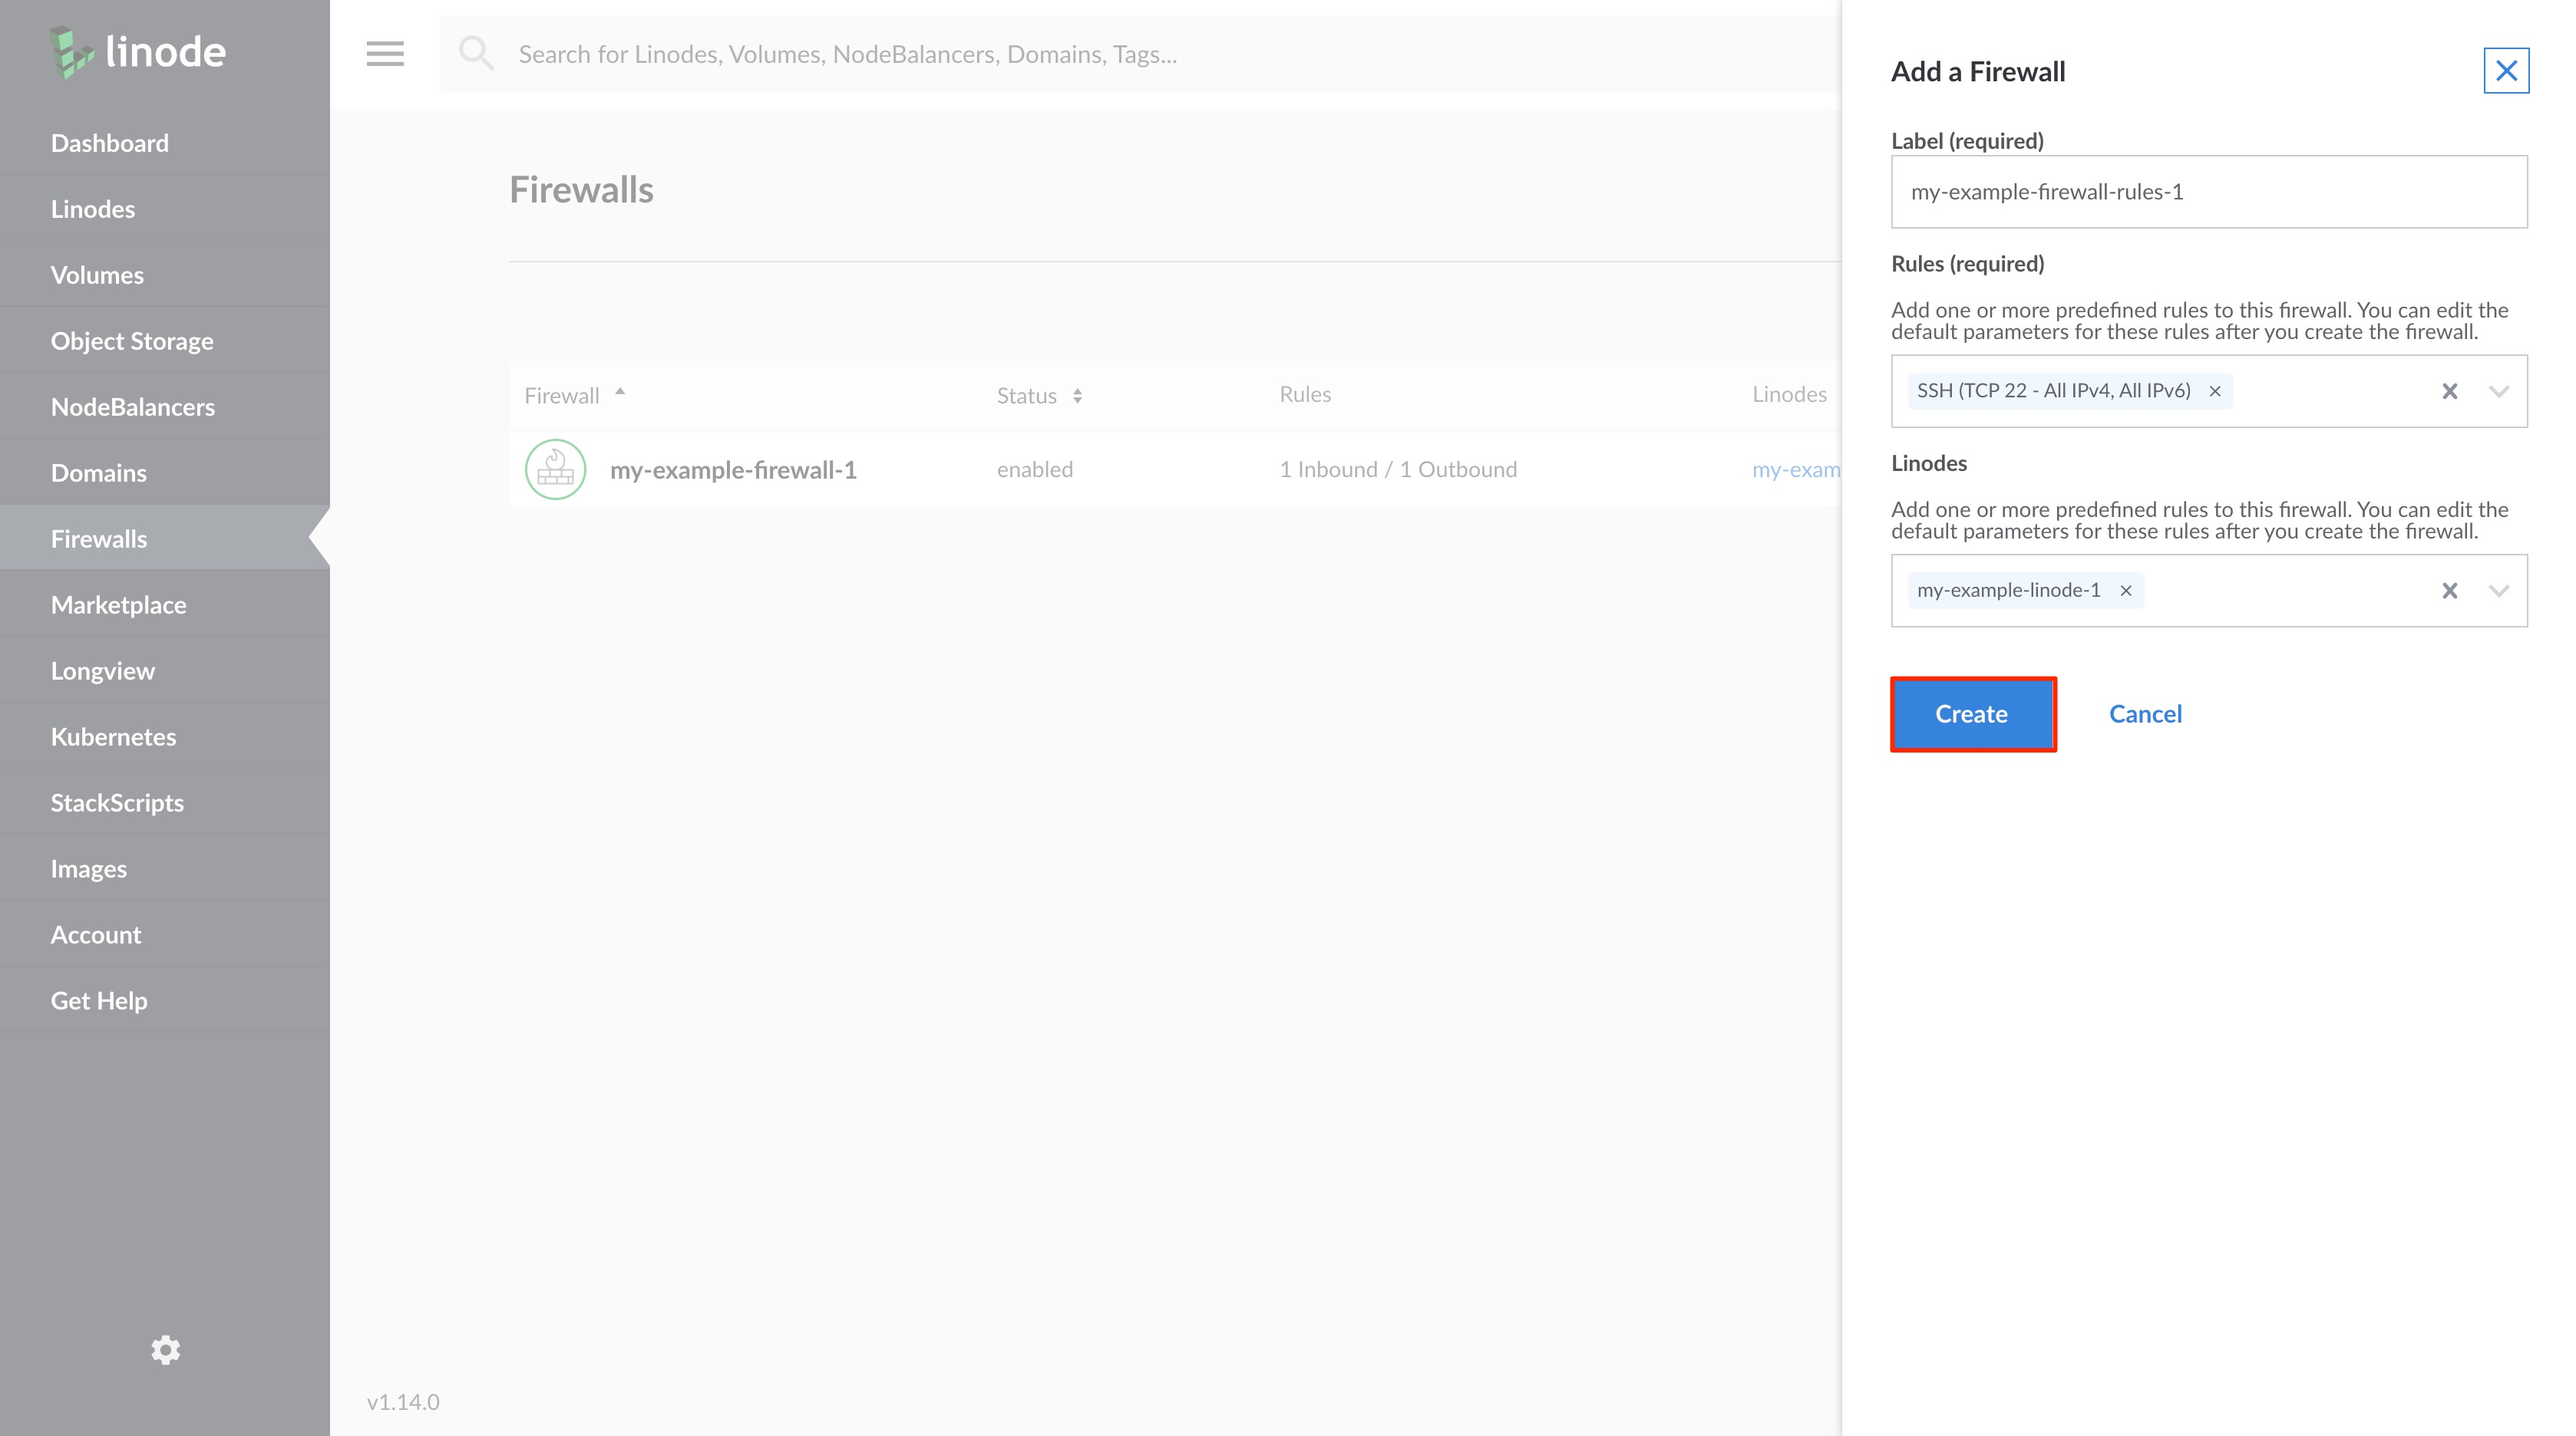
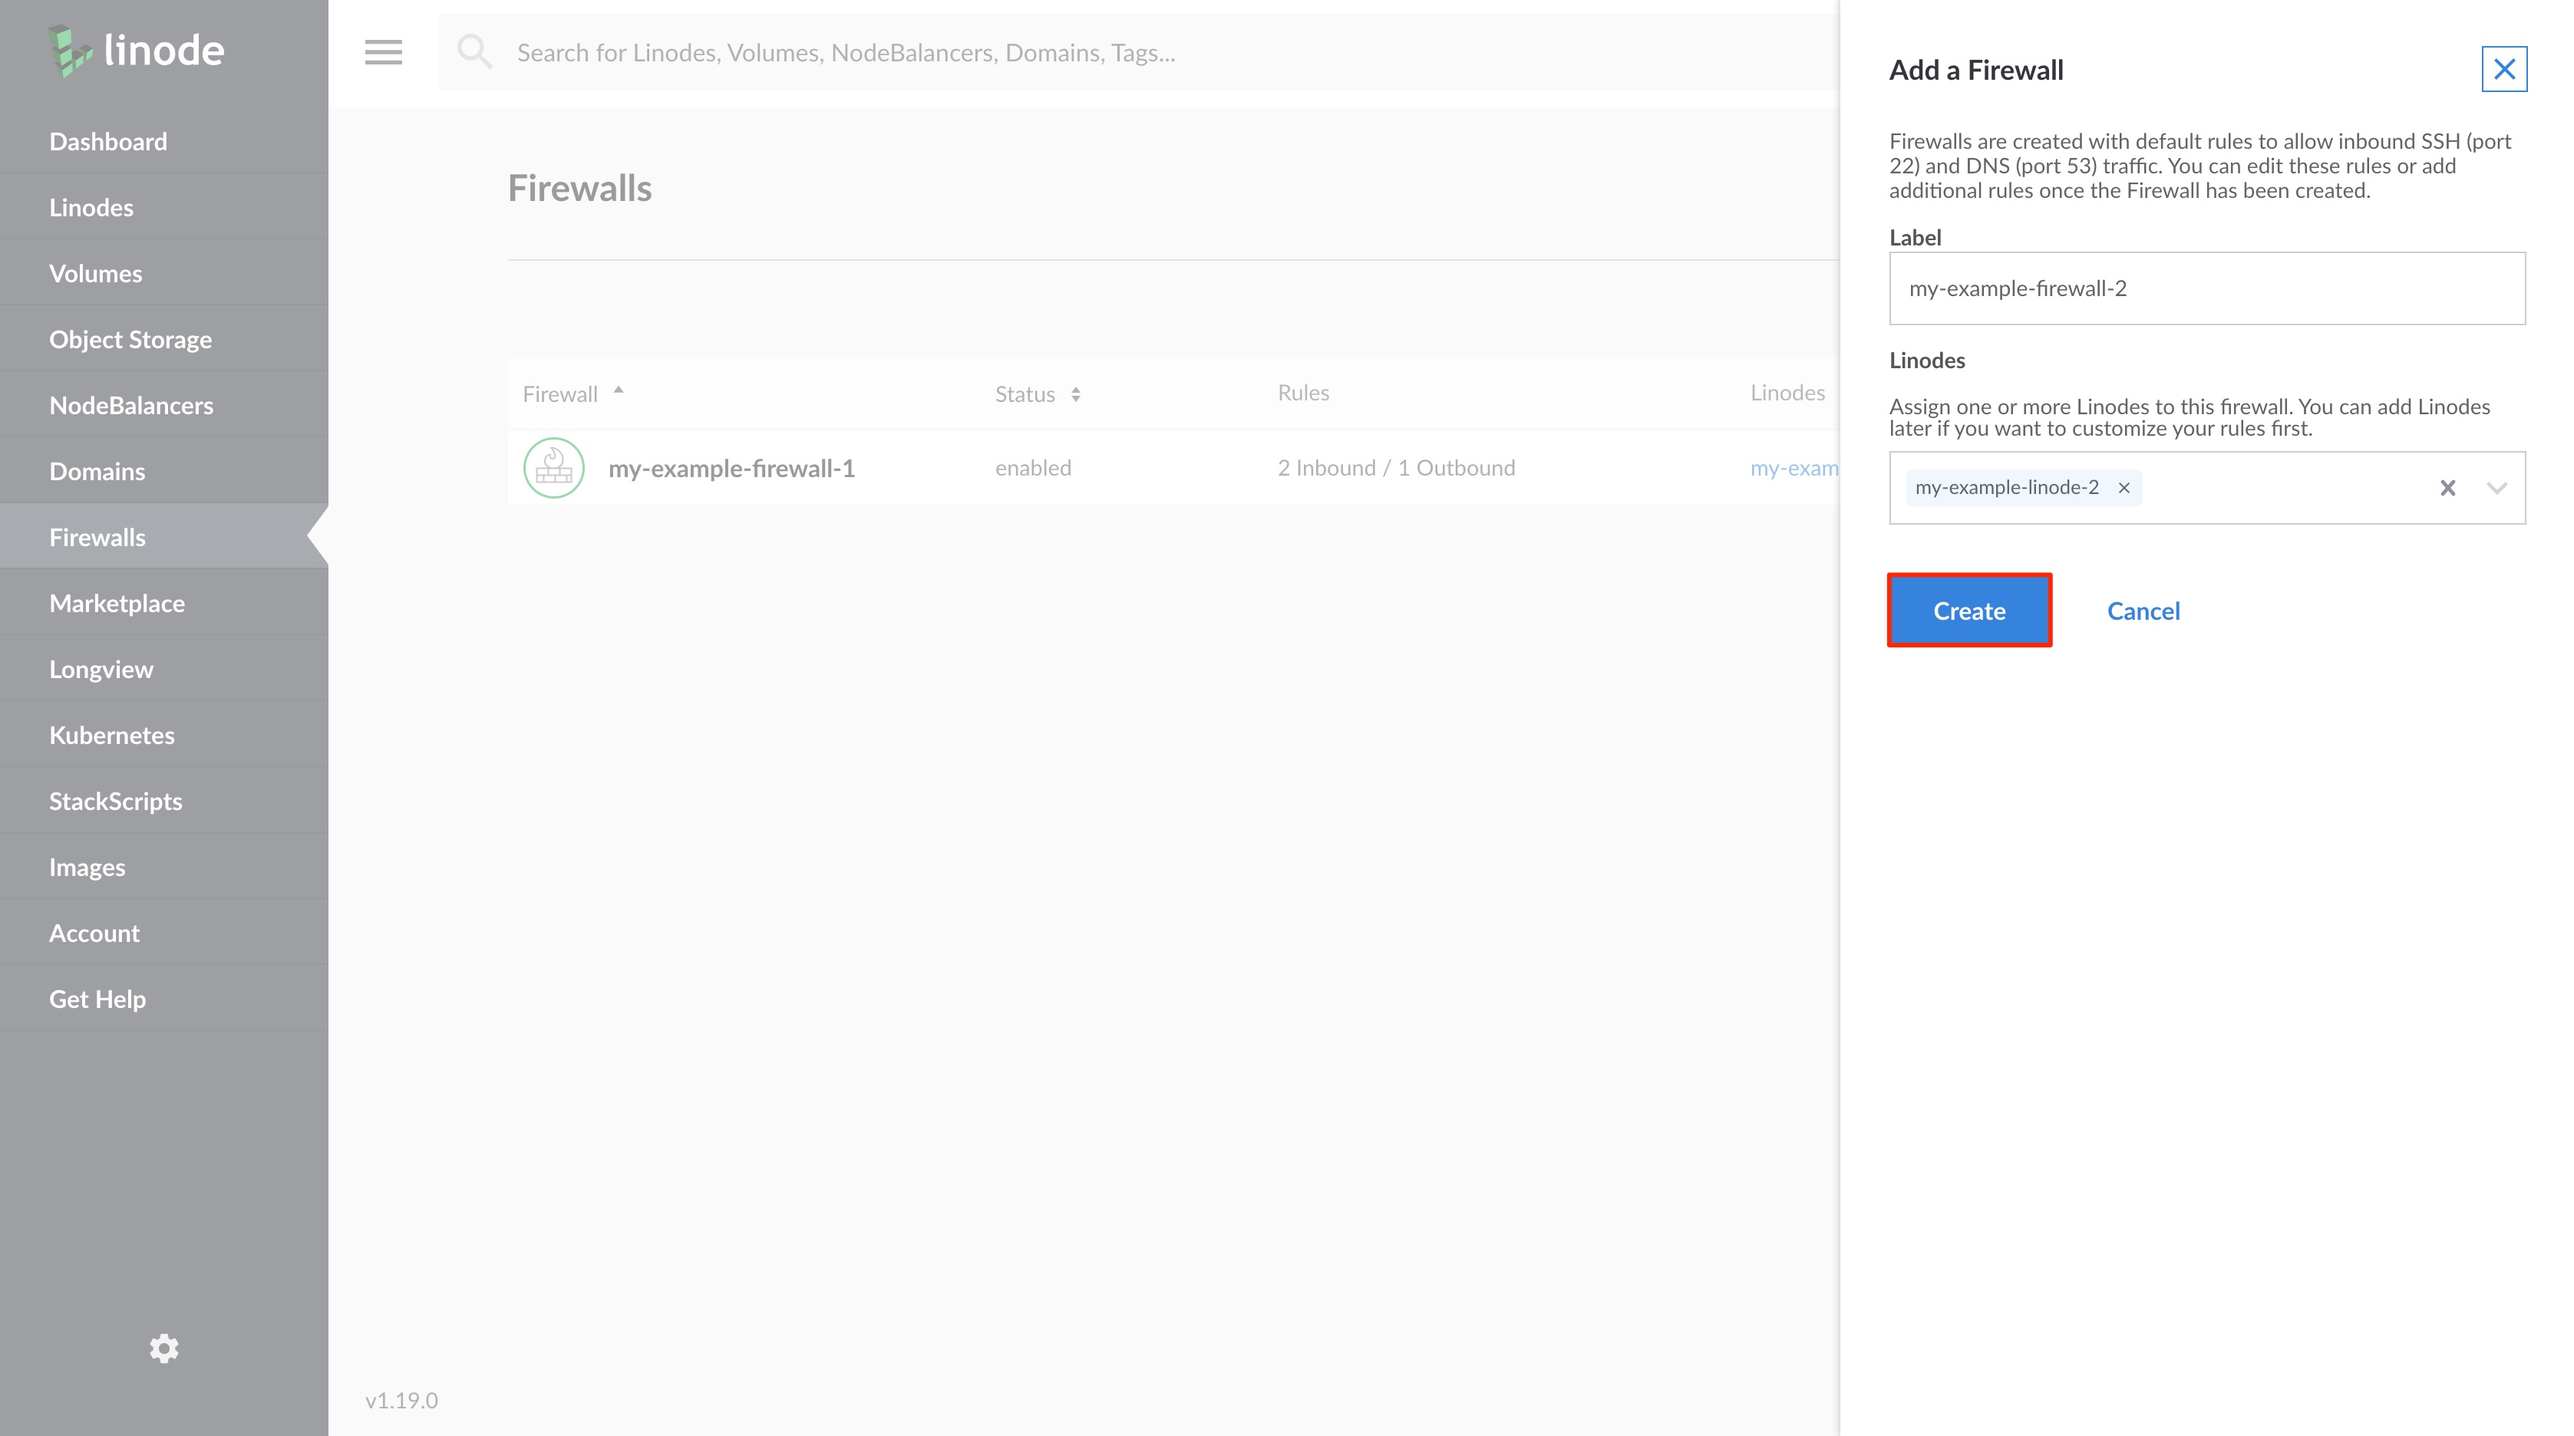
Rules are no longer an option by default when creating a firewall
Remove rules from table, update screenshot, add note about
default rules.

diff --git a/docs/platform/cloud-firewall/getting-started-with-cloud-firewall/index.md b/docs/platform/cloud-firewall/getting-started-with-cloud-firewall/index.md
@@ -51,10 +51,9 @@ The Linode Cloud Manager provides a list of *predefined rules* that you can add 
     | **Configuration** | **Description** |
     | :---------------: | :---------------: |
     | **Label** | The label is used an identifier for this Cloud Firewall. *Required*|
-    | **Rules** | The Firewall rule(s) to add to this Firewall. Choose from a list of predefined Inbound and Outbound Firewall rules that support common networking use cases. You can select more than one Firewall rule. You can [edit your selected rules](#edit-cloud-firewall-rules) after adding the Firewall, if needed. *Required*|
     | **Linodes**| The Linode(s) on which to apply this Firewall. A list of all Linodes on your account will be visible. You can skip this configuration if you do not yet wish to apply the Firewall to a Linode. |
 
-1. Click on the **Create** button. This will create the Cloud Firewall and you will see it appear on the **Firewalls** listing page.
+1. Click on the **Create** button. This creates the Cloud Firewall and it appears on the **Firewalls** listing page. By default, the Firewall has two Inbound rules applied to it; one for DNS queries (port `53`) and a second for SSH connections (port `22`). You can [edit](#edit-cloud-firewall-rules) or [delete](#delete-cloud-firewall-rules) the rules after adding the Firewall, if needed.
 
     ![Click on the Create button to create your Firewall.](create-your-firewall.png)
 
